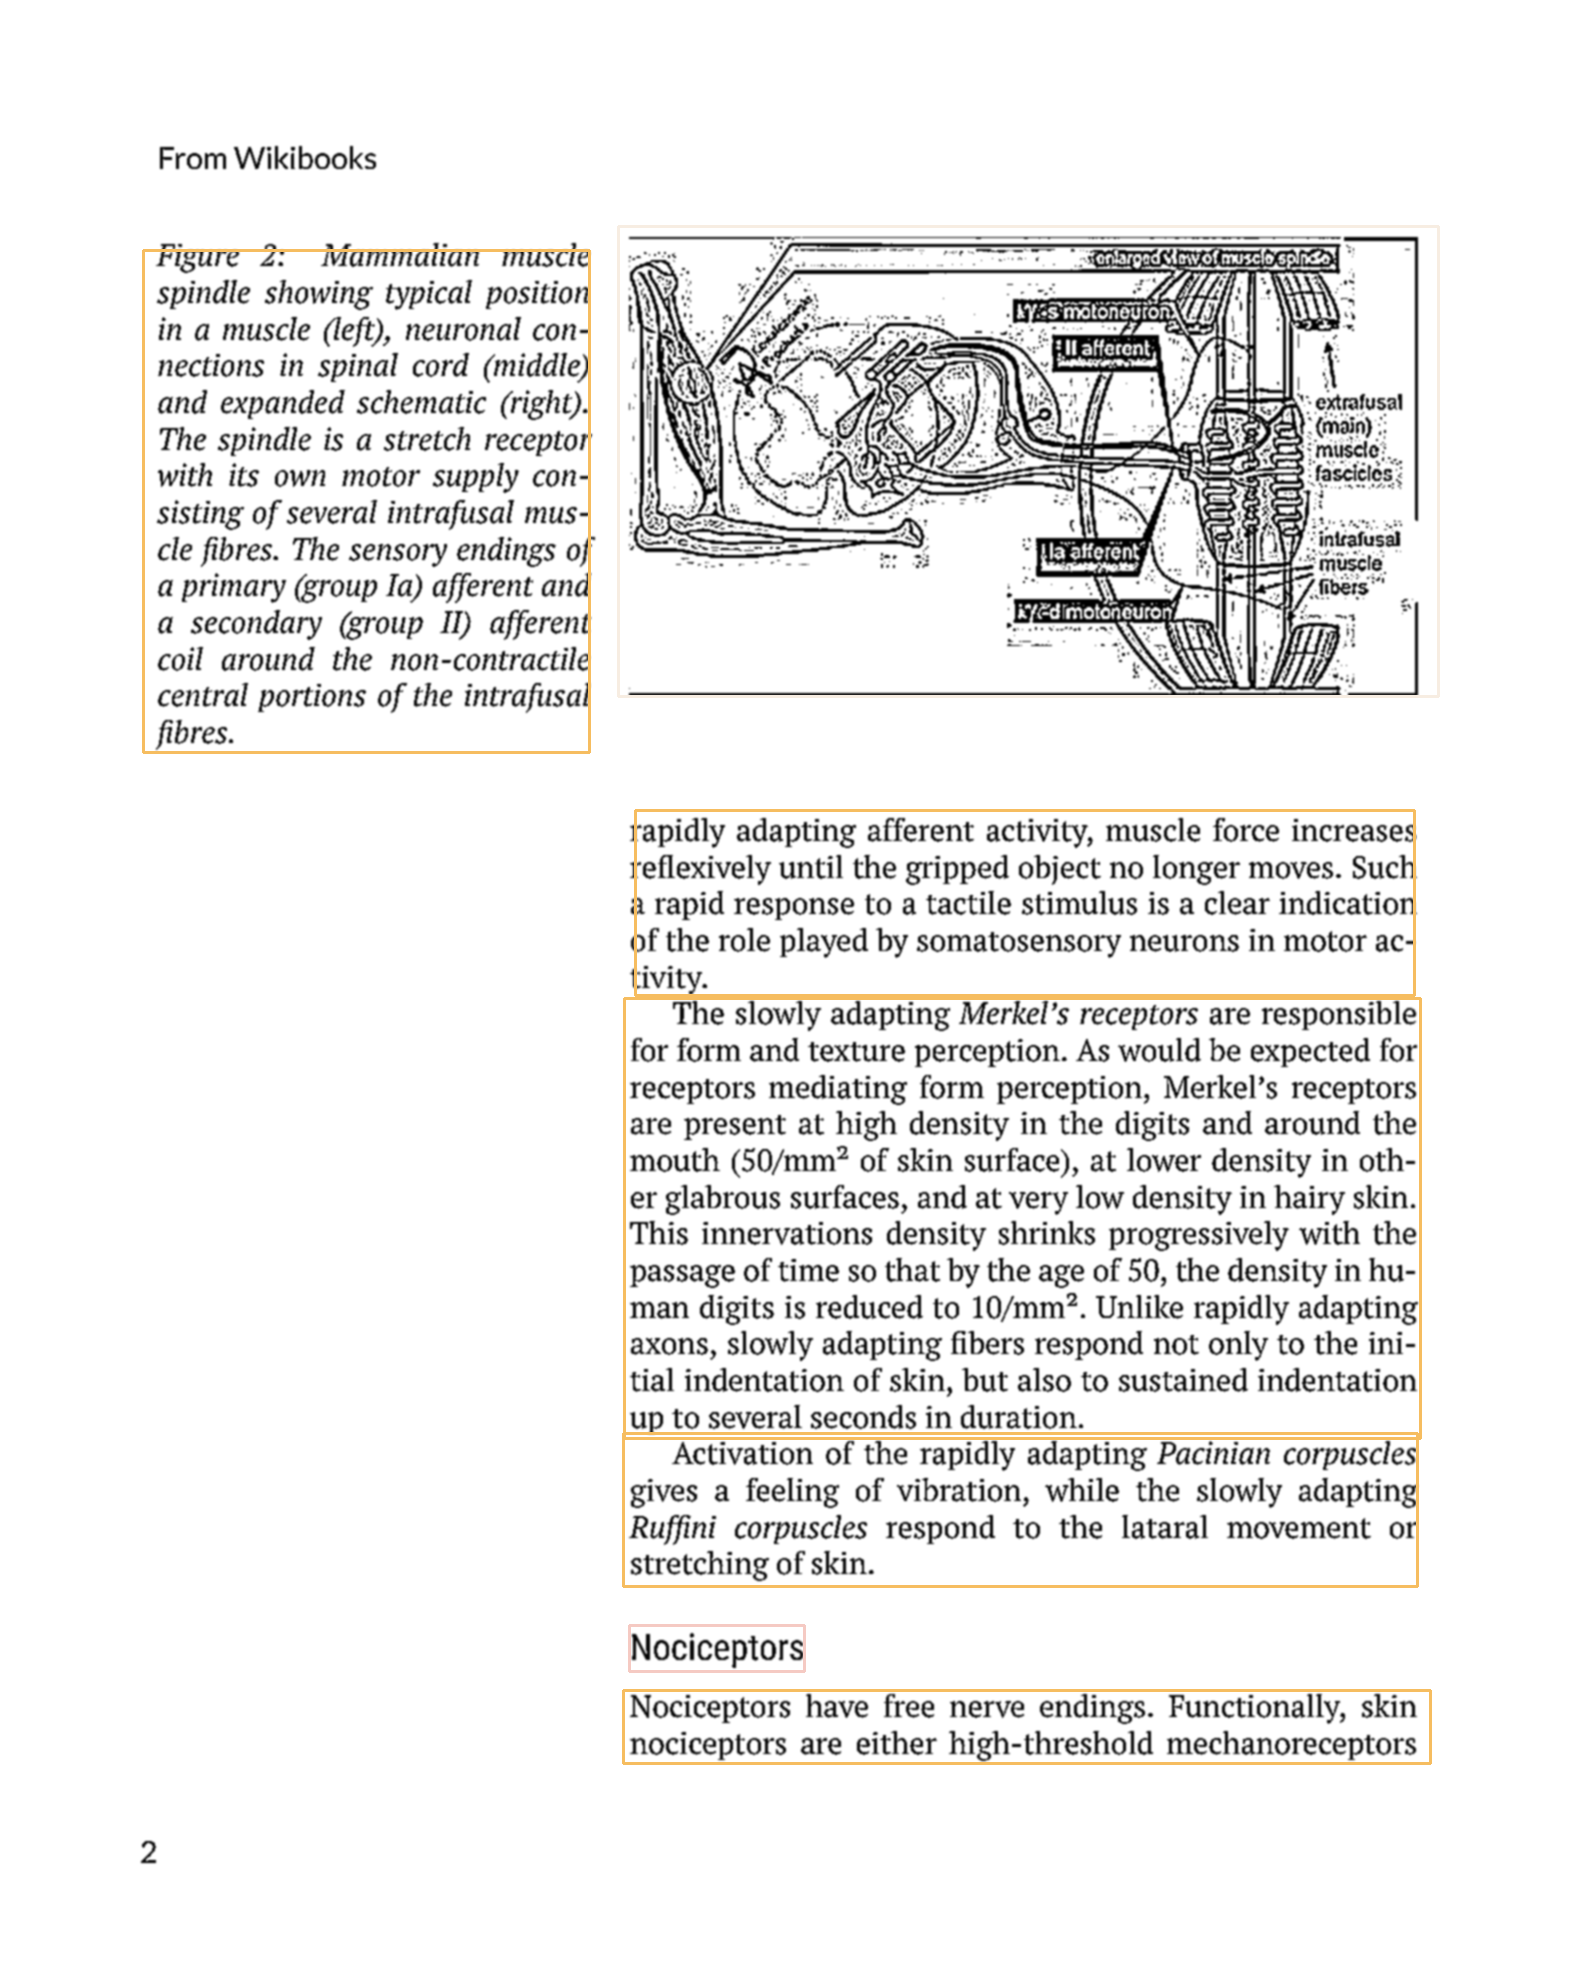
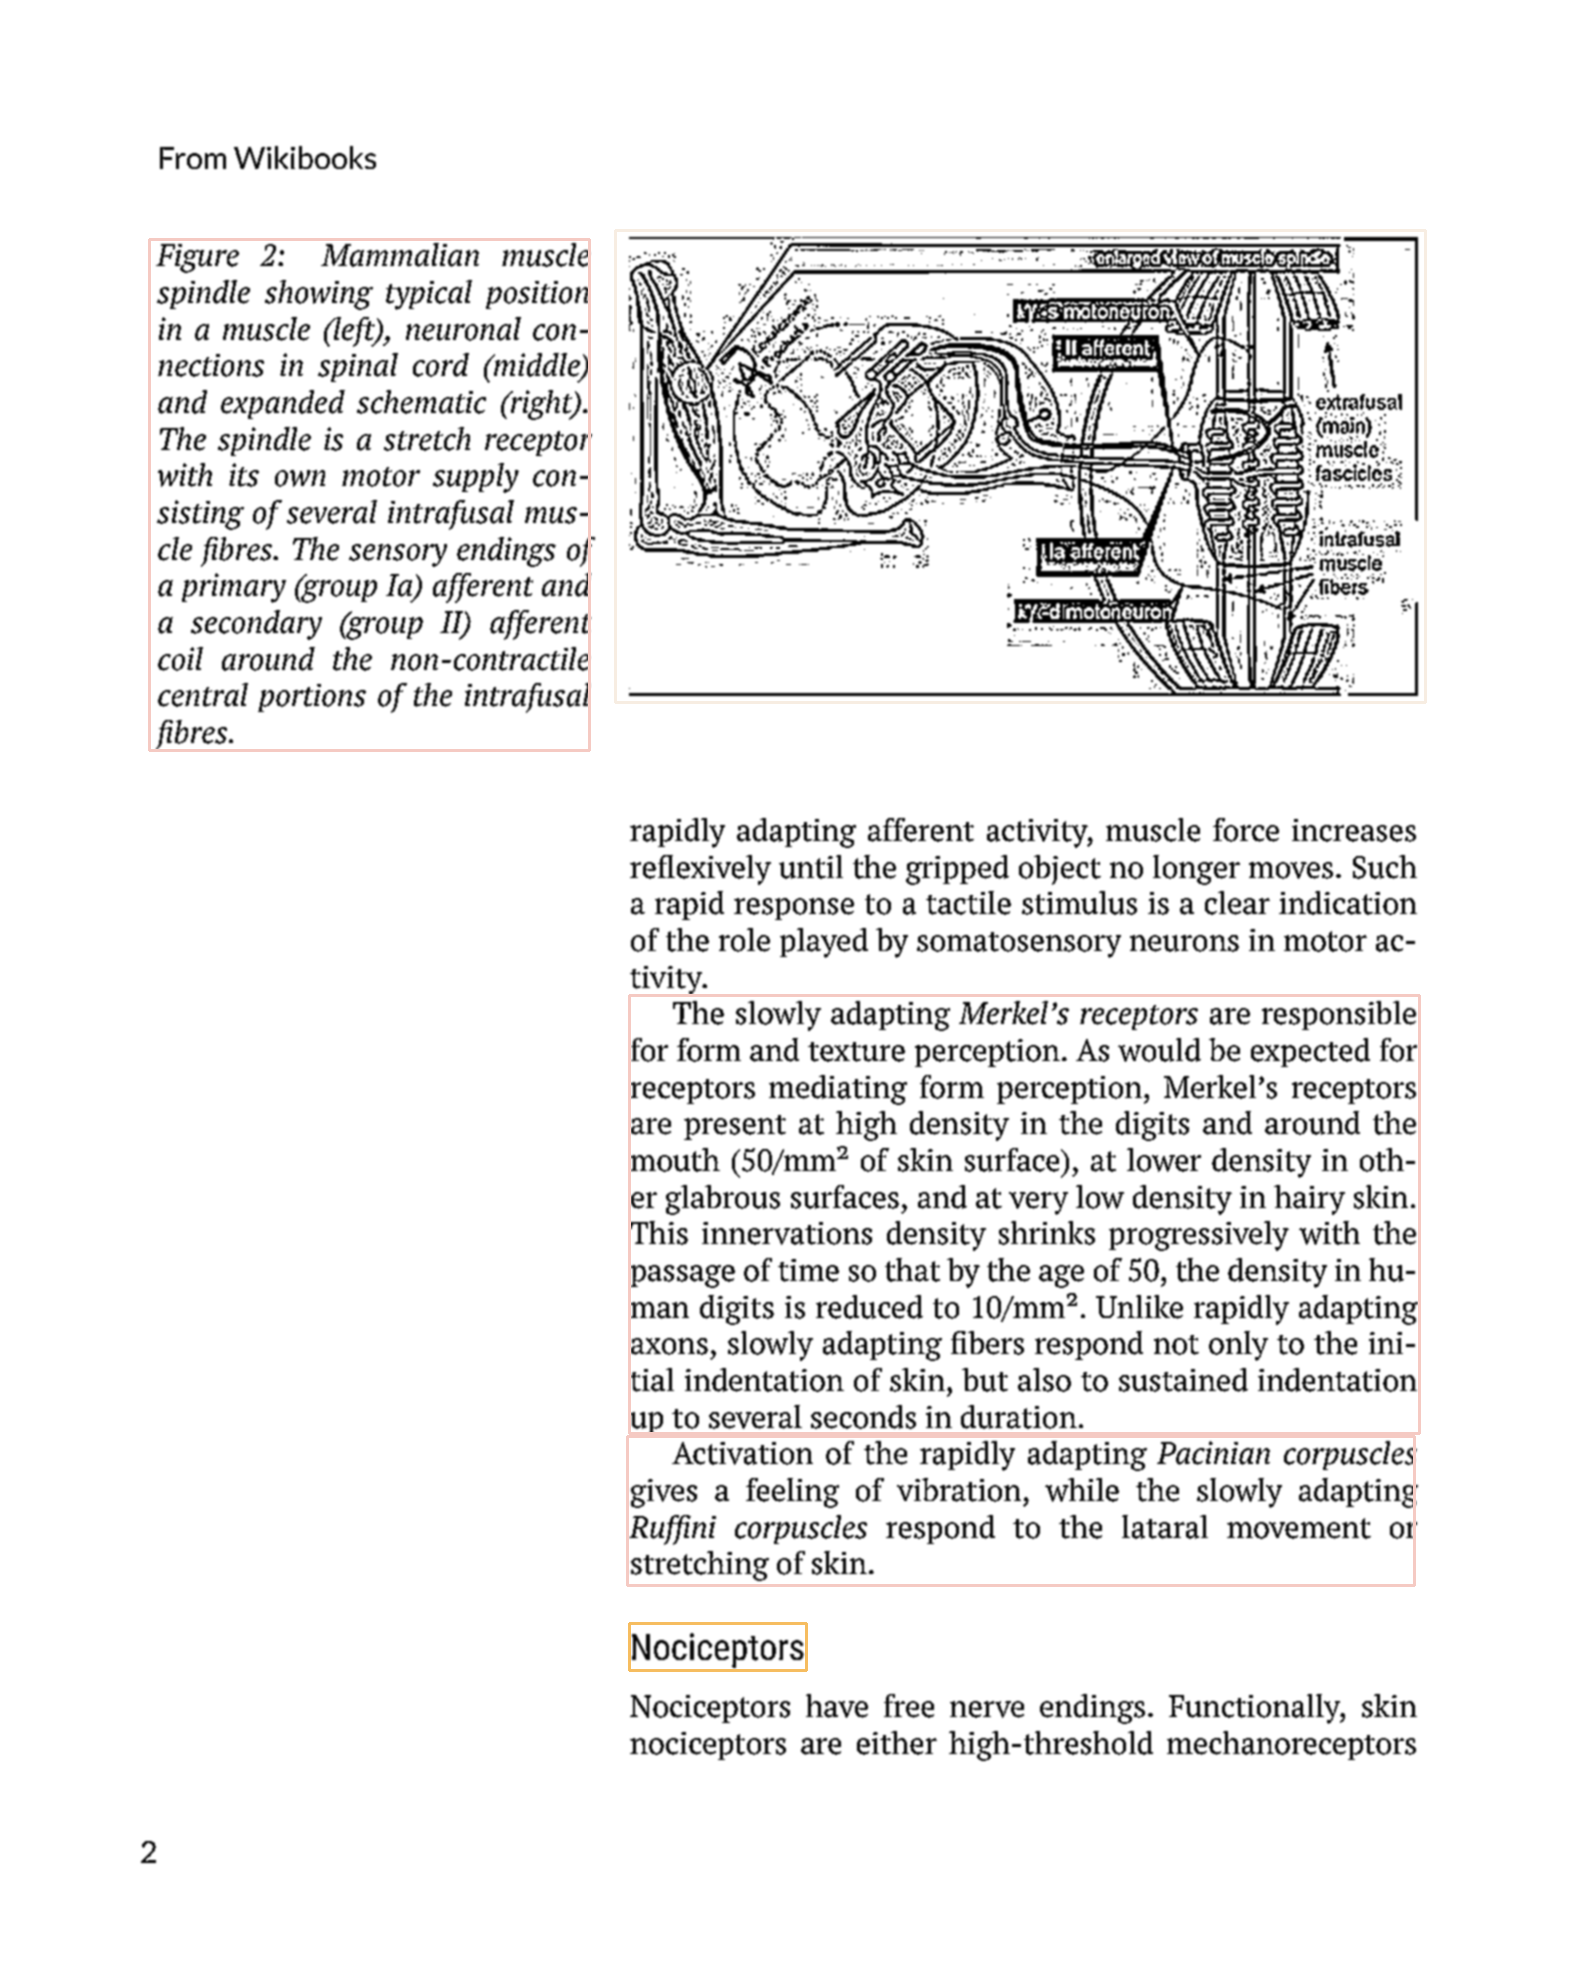
Testing different layout model

diff --git a/Task_3/layout_detector.py b/Task_3/layout_detector.py
@@ -20,7 +20,7 @@ class Layout_detector:
         noise_removed_image = noise_removed_image.convert('RGB')
         self.import_image = np.array(noise_removed_image)[..., ::-1] 
         self.model = lp.Detectron2LayoutModel(
-            'lp://PubLayNet/faster_rcnn_R_50_FPN_3x/config',
+            'lp://PubLayNet/mask_rcnn_X_101_32x8d_FPN_3x/config',
             extra_config=["MODEL.ROI_HEADS.SCORE_THRESH_TEST", 0.8],
             label_map={0: 'Text', 1: 'Title', 2: 'List', 3: 'Table', 4: 'Figure'}
         )
